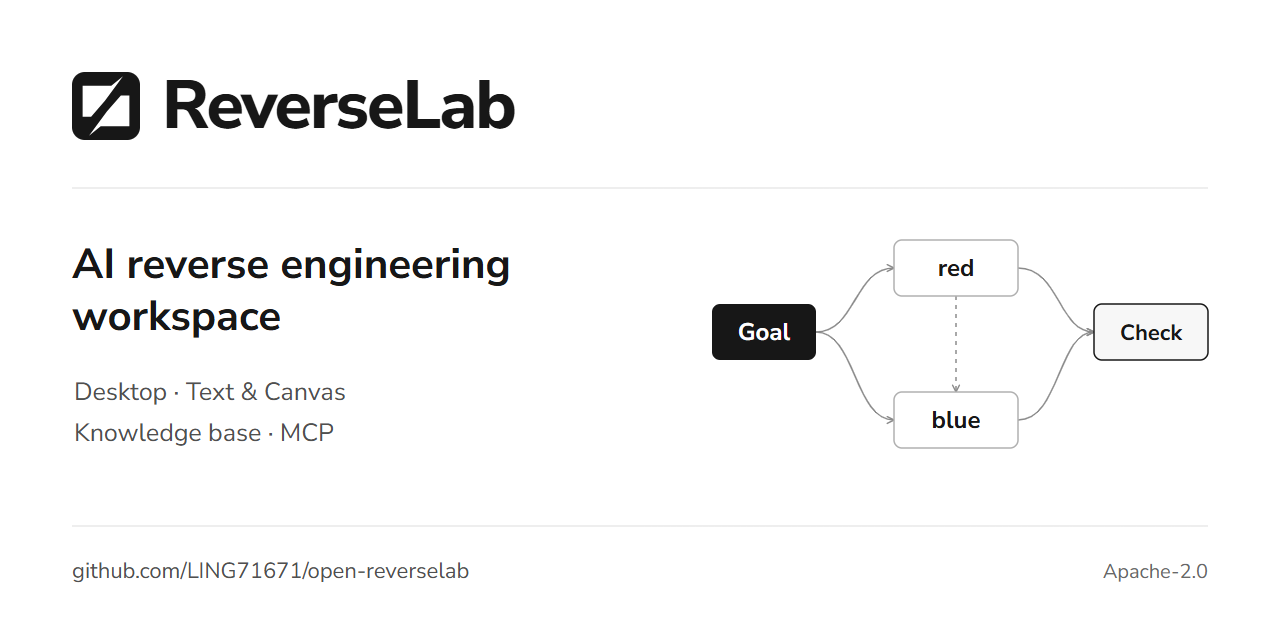
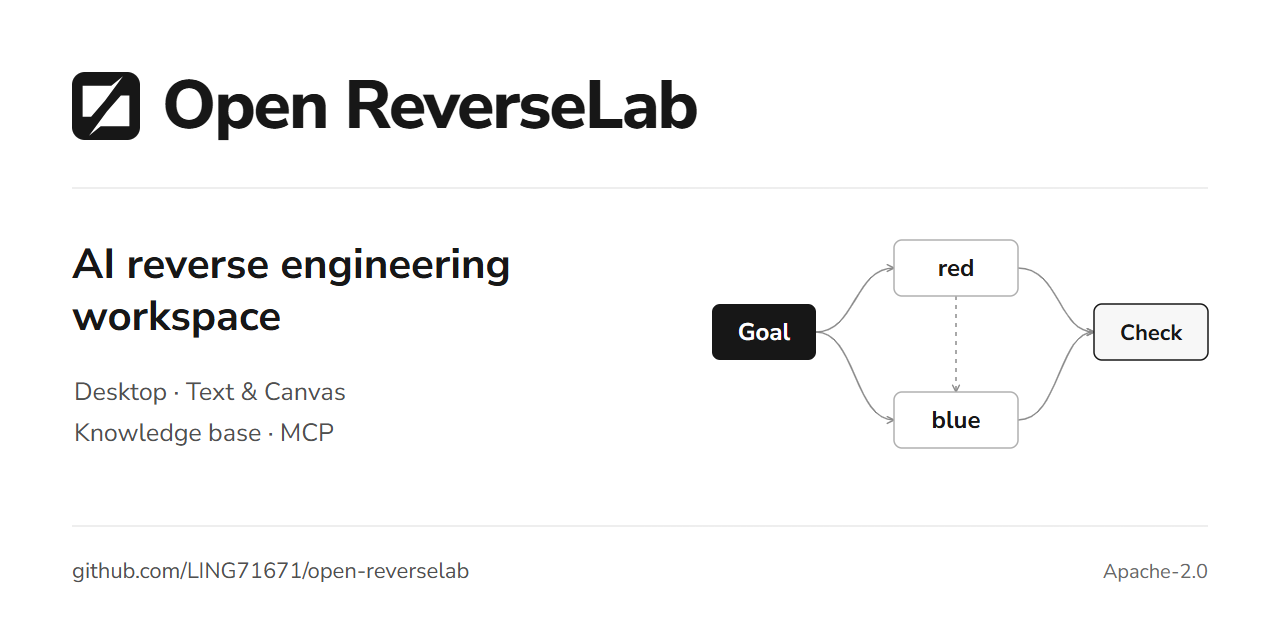
docs(brand): unify Open ReverseLab and refresh light preview assets

Changed region(s): [[0.125, 0.125, 0.5625, 0.2188]]

diff --git a/desktop/src/views/settings/UpdatesPane.tsx b/desktop/src/views/settings/UpdatesPane.tsx
@@ -31,7 +31,7 @@ export function UpdatesPane() {
   };
   const status = phase === "checking" ? "正在检查更新" : phase === "current" ? "已是最新版本" : phase === "downloading" ? "正在下载更新" : phase === "ready" ? "更新已下载，签名验证通过" : phase === "installing" ? "正在保存工作区并启动安装" : release ? `新版本 ${release.version}` : "";
   return <section className="updates-pane" id="settings-updates" role="tabpanel" aria-labelledby="settings-tab-updates">
-    <div className="update-version"><div><h3>ReverseLab <span>{info.version}</span></h3><p>{info.mode === "installed" ? "Windows 安装版" : info.mode === "portable" ? "Windows 便携版" : info.mode === "browser" ? "浏览器预览" : info.mode === "development" ? "开发构建" : "源码构建"}</p></div><button type="button" className="secondary-button" onClick={() => void updateService.check()} disabled={busy || phase === "ready" || info.mode === "browser"}>{phase === "checking" ? <Loader2 size={14} className="loading-spinner" /> : <RefreshCw size={14} />}检查更新</button></div>
+    <div className="update-version"><div><h3>Open ReverseLab <span>{info.version}</span></h3><p>{info.mode === "installed" ? "Windows 安装版" : info.mode === "portable" ? "Windows 便携版" : info.mode === "browser" ? "浏览器预览" : info.mode === "development" ? "开发构建" : "源码构建"}</p></div><button type="button" className="secondary-button" onClick={() => void updateService.check()} disabled={busy || phase === "ready" || info.mode === "browser"}>{phase === "checking" ? <Loader2 size={14} className="loading-spinner" /> : <RefreshCw size={14} />}检查更新</button></div>
     {info.mode === "browser" && <p className="update-hint">请在桌面应用中检查和安装更新。</p>}
     <label className="update-automatic"><input type="checkbox" checked={preferences.automatic} onChange={event => updateService.setAutomatic(event.target.checked)} disabled={phase === "installing"} /><span>自动检查更新<small>每天检查一次，下载和安装由你决定。</small></span></label>
     {status && <p className="update-status" role="status">{busy && <Loader2 size={15} className="loading-spinner" />}{status}</p>}

diff --git a/assets/social-preview-v2.html b/assets/social-preview-v2.html
@@ -1,7 +1,7 @@
 <!doctype html>
 <html lang="en">
 <meta charset="utf-8">
-<title>ReverseLab social preview</title>
+<title>Open ReverseLab social preview</title>
 <style>
   @font-face { font-family: 'Nunito Sans'; font-style: normal; font-weight: 400; src: url('../site/node_modules/@fontsource/nunito-sans/files/nunito-sans-latin-400-normal.woff2') format('woff2'); }
   @font-face { font-family: 'Nunito Sans'; font-style: normal; font-weight: 700; src: url('../site/node_modules/@fontsource/nunito-sans/files/nunito-sans-latin-700-normal.woff2') format('woff2'); }
@@ -12,7 +12,7 @@
 </style>
 <!-- Install the site dependencies, serve the repository root, then capture at
      1280 × 640 with deviceScaleFactor 1 after document.fonts.ready. -->
-<svg xmlns="http://www.w3.org/2000/svg" width="1280" height="640" viewBox="0 0 1280 640" role="img" aria-label="ReverseLab — AI reverse engineering workspace">
+<svg xmlns="http://www.w3.org/2000/svg" width="1280" height="640" viewBox="0 0 1280 640" role="img" aria-label="Open ReverseLab — AI reverse engineering workspace">
   <defs>
     <marker id="arrow" viewBox="0 0 8 8" refX="7" refY="4" markerWidth="6" markerHeight="6" orient="auto-start-reverse"><path d="M1 1 L7 4 L1 7" fill="none" stroke="#8b8b8b" stroke-width="1.3" stroke-linecap="round" stroke-linejoin="round"/></marker>
   </defs>
@@ -22,7 +22,7 @@
     <path d="M5 6.5 H18.5 L24 2 L15.5 13.5 L9 21 H5 Z" fill="#fff"/>
     <path d="M27 25.5 H13.5 L8 30 L16.5 18.5 L23 11 H27 Z" fill="#fff"/>
   </g>
-  <text x="162" y="128" font-size="68" font-weight="800" letter-spacing="-2" fill="#171717">ReverseLab</text>
+  <text x="162" y="128" font-size="68" font-weight="800" letter-spacing="-2" fill="#171717">Open ReverseLab</text>
   <path d="M72 188 H1208" stroke="#dedede"/>
   <text x="72" y="278" font-size="42" font-weight="700" fill="#171717">AI reverse engineering</text>
   <text x="72" y="330" font-size="42" font-weight="700" fill="#171717">workspace</text>

diff --git a/desktop/src/views/shell/TitleBar/TitleBar.tsx b/desktop/src/views/shell/TitleBar/TitleBar.tsx
@@ -9,7 +9,7 @@ export function TitleBar() {
     await getCurrentWindow()[action]();
   };
   return <div className="app-titlebar" data-tauri-drag-region onMouseDown={e => { if (e.button === 0 && !(e.target as HTMLElement).closest("button")) void windowAction("startDragging"); }} onDoubleClick={e => { if (!(e.target as HTMLElement).closest("button")) void windowAction("toggleMaximize"); }}>
-    <span className="app-brand"><Logo size={22} /><span>ReverseLab</span></span><span className="grow" />
+    <span className="app-brand"><Logo size={22} /><span>Open ReverseLab</span></span><span className="grow" />
     {native && <div className="window-actions"><button aria-label="最小化" onClick={() => void windowAction("minimize")}><Minus size={14} /></button><button aria-label="最大化" onClick={() => void windowAction("toggleMaximize")}><Square size={12} /></button><button aria-label="关闭窗口" onClick={() => void windowAction("close")}><X size={16} /></button></div>}
   </div>;
 }

diff --git a/desktop/index.html b/desktop/index.html
@@ -4,7 +4,7 @@
     <meta charset="UTF-8" />
     <link rel="icon" type="image/svg+xml" href="/logo.svg" />
     <meta name="viewport" content="width=device-width, initial-scale=1.0" />
-    <title>ReverseLab</title>
+    <title>Open ReverseLab</title>
     <link rel="preconnect" href="https://fonts.googleapis.com" />
     <link rel="preconnect" href="https://fonts.gstatic.com" crossorigin />
     <link

diff --git a/README.md b/README.md
@@ -1,8 +1,8 @@
 <div align="center">
 
-# Open-ReverseLab
+# Open ReverseLab
 
-<img src="assets/social-preview-v2.png" width="960" alt="ReverseLab — AI reverse engineering workspace">
+<img src="assets/social-preview-v2.png" width="960" alt="Open ReverseLab — AI reverse engineering workspace">
 
 **An AI workspace for target-based reverse engineering**
 
@@ -37,10 +37,7 @@ Desktop workspaces · red / blue / both · Parallel Goals · Knowledge base · M
 
 Select `red / blue / both` in the upper-left corner, choose a workspace, and enter a file, directory, or URL target with a Goal. The live canvas shows execution branches; activity, logs, reports, and health views retain the evidence behind the result.
 
-<picture>
-  <source media="(prefers-color-scheme: dark)" srcset="assets/desktop/knowledge-dark.png">
-  <img src="assets/desktop/knowledge-light.png" alt="ReverseLab Desktop knowledge reader in both mode" width="1280">
-</picture>
+<img src="assets/desktop/knowledge-light.png" alt="Open ReverseLab Desktop knowledge reader in both mode" width="1280">
 
 - **Independent strategies.** `red` and `blue` use separate analysis policies. `both` runs the branches in parallel and joins their results.
 - **Concurrent Goals.** Each workspace runs up to two Goals at once by default. Switching views, tasks, or workspaces does not redirect a running task's output.
@@ -53,7 +50,7 @@ Select `red / blue / both` in the upper-left corner, choose a workspace, and ent
 The desktop is being prepared for `v2.0.0-beta.1`; its installer has not been published. Use the [source build](#build-the-desktop) to try the current preview. Published downloads will be listed on [Releases](https://github.com/LING71671/open-reverselab/releases).
 
 1. Install Python 3.10 or newer and make the `python` command available on PATH. Windows also needs the Microsoft Edge WebView2 runtime.
-2. Build and launch ReverseLab from the repository. Keep personal workspaces outside the source and installation directories.
+2. Build and launch Open ReverseLab from the repository. Keep personal workspaces outside the source and installation directories.
 3. Open Settings and configure an OpenAI-compatible chat-completions endpoint and model, then enter a target and objective. SHA256 verification can run locally without a model.
 
 Windows x64 is the desktop packaging target. Python and third-party tools such as Ghidra, Frida, and x64dbg are installed separately. macOS/Linux support the source-based CLI/MCP workflow; native desktop packages for those platforms are not currently provided. See [application updates](desktop/UPDATES.md) for the installed-build update mechanism.

diff --git a/README.zh.md b/README.zh.md
@@ -1,8 +1,8 @@
 <div align="center">
 
-# Open-ReverseLab
+# Open ReverseLab
 
-<img src="assets/social-preview-v2.png" width="960" alt="ReverseLab — AI reverse engineering workspace">
+<img src="assets/social-preview-v2.png" width="960" alt="Open ReverseLab — AI reverse engineering workspace">
 
 **面向目标的 AI 逆向分析工作台**
 
@@ -37,10 +37,7 @@
 
 在左上角选择 `red / blue / both`，选好工作区，填写文件、目录或 URL 目标和任务内容。实时流程画板展示执行分支，执行记录、日志、报告和健康监控保留结论所依据的证据。
 
-<picture>
-  <source media="(prefers-color-scheme: dark)" srcset="assets/desktop/knowledge-dark.png">
-  <img src="assets/desktop/knowledge-light.png" alt="ReverseLab 桌面端 both 模式下的知识库阅读界面" width="1280">
-</picture>
+<img src="assets/desktop/knowledge-light.png" alt="Open ReverseLab 桌面端 both 模式下的知识库阅读界面" width="1280">
 
 - **策略独立。** red 与 blue 分别维护分析策略，both 并行运行两个分支并汇总各自结果。
 - **多任务并行。** 每个工作区默认同时运行两个 Goal。切换页面、任务或工作区不会改变后台任务的输出归属。
@@ -53,7 +50,7 @@
 桌面端正在准备 `v2.0.0-beta.1`，安装包尚未发布。当前可从[源码构建](#从源码运行桌面端)体验预览版，后续下载以 [Releases](https://github.com/LING71671/open-reverselab/releases) 中的实际发布为准。
 
 1. 安装 Python 3.10 或更新版本，确保终端能执行 `python`。Windows 还需要 Microsoft Edge WebView2 Runtime。
-2. 从仓库构建并启动 ReverseLab，个人工作区放在源码与安装目录之外。
+2. 从仓库构建并启动 Open ReverseLab，个人工作区放在源码与安装目录之外。
 3. 在设置中配置兼容 OpenAI chat-completions 的 API 地址和模型，再填写目标和任务内容。SHA256 核验可直接在本地运行，无需模型。
 
 桌面端以 Windows x64 为打包目标，Python、Ghidra、Frida、x64dbg 等外部工具需另行安装。macOS/Linux 可使用源码形式的 CLI/MCP 工作流，暂未提供桌面安装包。安装版的更新机制见[应用更新](desktop/UPDATES.md)。

diff --git a/PRODUCT.md b/PRODUCT.md
@@ -1,8 +1,8 @@
-# ReverseLab 产品说明
+# Open ReverseLab 产品说明
 
 ## 用途与使用者
 
-ReverseLab 面向逆向工程师、安全研究员、蓝队防御者和使用 AI Agent 的分析人员。用户指定目标、任务内容和可选运行限制，系统执行分析并保留可追溯证据。
+Open ReverseLab 面向逆向工程师、安全研究员、蓝队防御者和使用 AI Agent 的分析人员。用户指定目标、任务内容和可选运行限制，系统执行分析并保留可追溯证据。
 
 ## 三个入口
 

diff --git a/DESIGN.md b/DESIGN.md
@@ -1,6 +1,6 @@
-# ReverseLab 视觉规范
+# Open ReverseLab 视觉规范
 
-官网与桌面端沿用 OFFFOLD 的黑白方向：清爽、少文字、功能清楚，保留 ReverseLab 标识。首页展示实际产品，知识库以阅读和检索为主。
+官网与桌面端沿用 OFFFOLD 的黑白方向：清爽、少文字、功能清楚，保留 Open ReverseLab 标识。首页展示实际产品，知识库以阅读和检索为主。
 
 ## 颜色与字体
 

diff --git a/SPONSORS.md b/SPONSORS.md
@@ -16,4 +16,4 @@ Sentry provides a sponsored account for error monitoring and performance tracing
 
 ## Support the project
 
-To sponsor ReverseLab, contact the project maintainer on GitHub.
+To sponsor Open ReverseLab, contact the project maintainer on GitHub.
